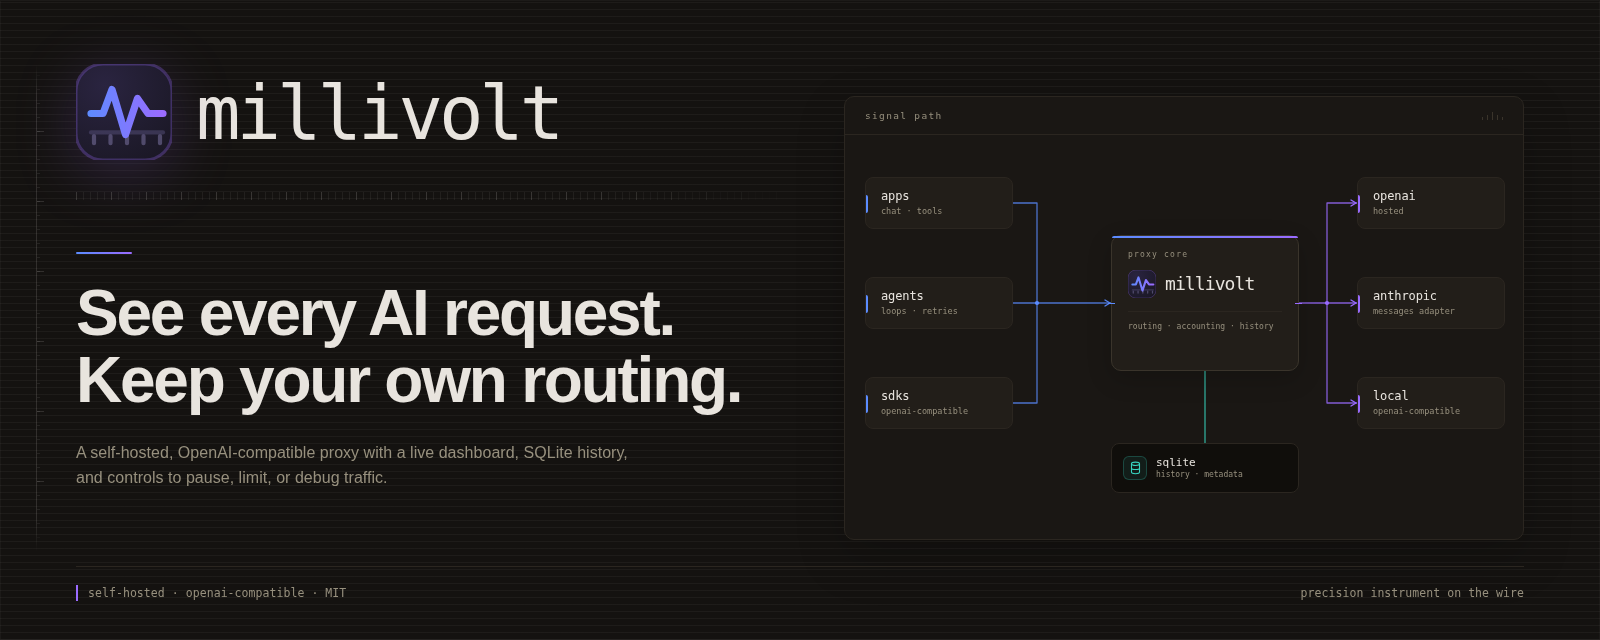
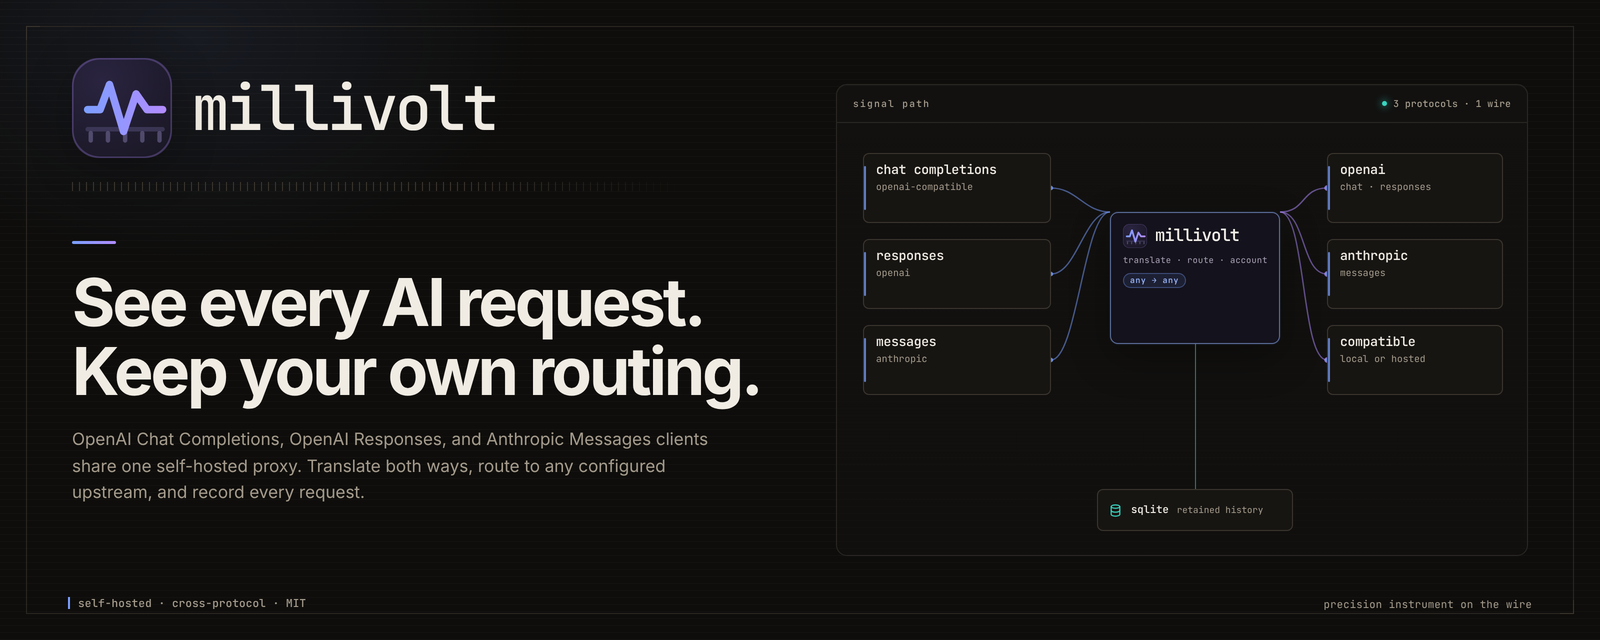
brand: show cross-protocol routing in the marketing images

diff --git a/site-src/templates/landing.html b/site-src/templates/landing.html
@@ -1,9 +1,9 @@
 <main id="main">
   <section class="hero wrap">
     <div class="hero-copy">
-      <p class="eyebrow"><span class="eyebrow-dot" aria-hidden="true"></span>self-hosted · openai-compatible · MIT</p>
+      <p class="eyebrow"><span class="eyebrow-dot" aria-hidden="true"></span>self-hosted · cross-protocol · MIT</p>
       <h1>See every AI request.<br>Keep your own routing.</h1>
-      <p class="lead">A self-hosted, OpenAI-compatible proxy with a live dashboard, SQLite history, and controls to pause, limit, or debug traffic. Request metadata, timing, tokens, cost, and outcomes; body capture is opt-in.</p>
+      <p class="lead">A self-hosted, cross-protocol inference proxy with a live dashboard, SQLite history, and controls to pause, limit, or debug traffic. OpenAI Chat Completions, OpenAI Responses, and Anthropic Messages clients can target any configured upstream. Request metadata, timing, tokens, cost, and outcomes; body capture is opt-in.</p>
       <div class="hero-actions">
         <a class="btn btn-primary" href="#quickstart">Run it locally</a>
         <a class="btn btn-ghost" href="docs/dashboard.html">Tour the dashboard</a>
@@ -18,17 +18,17 @@
       </div>
       <div class="signal-map">
         <div class="signal-column">
-          <span class="entity-label">clients</span>
-          <div class="entity-chip"><span class="entity-line" style="--entity:#56b4e9" aria-hidden="true"></span>apps</div>
-          <div class="entity-chip"><span class="entity-line" style="--entity:#009e73" aria-hidden="true"></span>agents</div>
-          <div class="entity-chip"><span class="entity-line" style="--entity:#e69f00" aria-hidden="true"></span>IDE</div>
+          <span class="entity-label">client protocols</span>
+          <div class="entity-chip"><span class="entity-line" style="--entity:#56b4e9" aria-hidden="true"></span>chat</div>
+          <div class="entity-chip"><span class="entity-line" style="--entity:#009e73" aria-hidden="true"></span>responses</div>
+          <div class="entity-chip"><span class="entity-line" style="--entity:#e69f00" aria-hidden="true"></span>messages</div>
         </div>
         <div class="signal-arrow" aria-hidden="true"></div>
         <div class="signal-core">
           <img src="assets/mark.svg" alt="" width="64" height="64">
           <strong>millivolt</strong>
-          <span>route · observe · control</span>
-          <small>openai-compatible API</small>
+          <span>translate · route</span>
+          <small>any configured upstream</small>
         </div>
         <div class="signal-arrow" aria-hidden="true"></div>
         <div class="signal-column">
@@ -42,7 +42,7 @@
         <span>SQLite / in-memory</span>
         <span>metadata and metrics</span>
       </div>
-      <figcaption class="sr-only">Clients send OpenAI-compatible requests to millivolt. millivolt routes them to upstream APIs and records request metadata and metrics in SQLite or an in-memory ring.</figcaption>
+      <figcaption class="sr-only">Chat Completions, Responses, and Anthropic Messages clients send requests to millivolt. millivolt translates them for the configured upstream and records request metadata and metrics in SQLite or an in-memory ring.</figcaption>
     </figure>
   </section>
 
@@ -178,7 +178,7 @@ docker compose up -d</code></pre>
     </div>
     <div class="connect" id="connect-a-client">
       <h3>Connect a client.</h3>
-      <p>Point an OpenAI-compatible client at <code>http://127.0.0.1:8080/v1</code>. Send your upstream base URL in <code>X-Proxy-Base-URL</code>, your upstream key in <code>Authorization</code>, and an optional label in <code>X-Proxy-Client</code>. The proxy does not register providers or keys.</p>
+      <p>Point an OpenAI Chat Completions, OpenAI Responses, or Anthropic Messages client at <code>http://127.0.0.1:8080/v1</code>. Send your upstream base URL in <code>X-Proxy-Base-URL</code>, your upstream key in <code>Authorization</code>, and an optional label in <code>X-Proxy-Client</code>. The proxy does not register providers or keys.</p>
       <p><a class="text-link" href="docs/protocol.html">Protocol and client integration</a> · <a class="text-link" href="docs/adapters.html">Adapters and compatibility</a></p>
     </div>
   </section>
@@ -202,7 +202,7 @@ docker compose up -d</code></pre>
           <span class="mono-label">one Go service</span>
           <div class="arch-service-grid">
             <div><strong>routing</strong><span>per-request upstream URL, credentials, and path</span></div>
-            <div><strong>adapters</strong><span>OpenAI-compatible, Anthropic Messages, Cursor Connect</span></div>
+            <div><strong>adapters</strong><span>Chat Completions, Responses, Anthropic Messages, Cursor Connect</span></div>
             <div><strong>dashboard</strong><span>embedded assets, live SSE, retained views</span></div>
             <div><strong>operator API</strong><span>MCP tools and scoped controls</span></div>
           </div>

diff --git a/scripts/build_site.py b/scripts/build_site.py
@@ -478,7 +478,7 @@ def base_values(
         "description": attr_escape(description),
         "canonical": attr_escape(canonical),
         "og_image": attr_escape(og_image),
-        "og_image_alt": attr_escape("millivolt: see every AI request, keep your own routing"),
+        "og_image_alt": attr_escape("millivolt: three client protocols in, any configured upstream out, every request recorded"),
         "site_name": "millivolt",
         "root": root,
         "body": body,

diff --git a/README.md b/README.md
@@ -2,9 +2,11 @@
 
 See every AI request. Keep your own routing.
 
-A self-hosted, OpenAI-compatible proxy with a live dashboard, SQLite history,
-and controls to pause, limit, or debug traffic. Request metadata, timing,
-tokens, cost, and outcomes; body capture is opt-in.
+A self-hosted, cross-protocol inference proxy with a live dashboard, SQLite
+history, and controls to pause, limit, or debug traffic. OpenAI Chat
+Completions, OpenAI Responses, and Anthropic Messages clients can target any
+configured upstream. Request metadata, timing, tokens, cost, and outcomes; body
+capture is opt-in.
 
 [![Checks and images](https://github.com/LLM-4-People/millivolt/actions/workflows/check.yml/badge.svg?branch=main)](https://github.com/LLM-4-People/millivolt/actions/workflows/check.yml)
 
@@ -105,7 +107,7 @@ exactly-once contract. See [protocol](docs/protocol.md).
 <picture>
   <source media="(prefers-color-scheme: dark)" srcset="docs/images/brand/readme-cover-dark.png">
   <source media="(prefers-color-scheme: light)" srcset="docs/images/brand/readme-cover-light.png">
-  <img src="docs/images/brand/readme-cover-dark.png" alt="millivolt cover showing clients routing through the proxy to upstream APIs, with SQLite metadata below" width="1600" height="640">
+  <img src="docs/images/brand/readme-cover-dark.png" alt="millivolt cover showing OpenAI Chat Completions, OpenAI Responses, and Anthropic Messages clients routing through one proxy to any configured upstream, with SQLite metadata below" width="1600" height="640">
 </picture>
 
 The instrument panel is a dense operator surface in either Black or Clear, not
